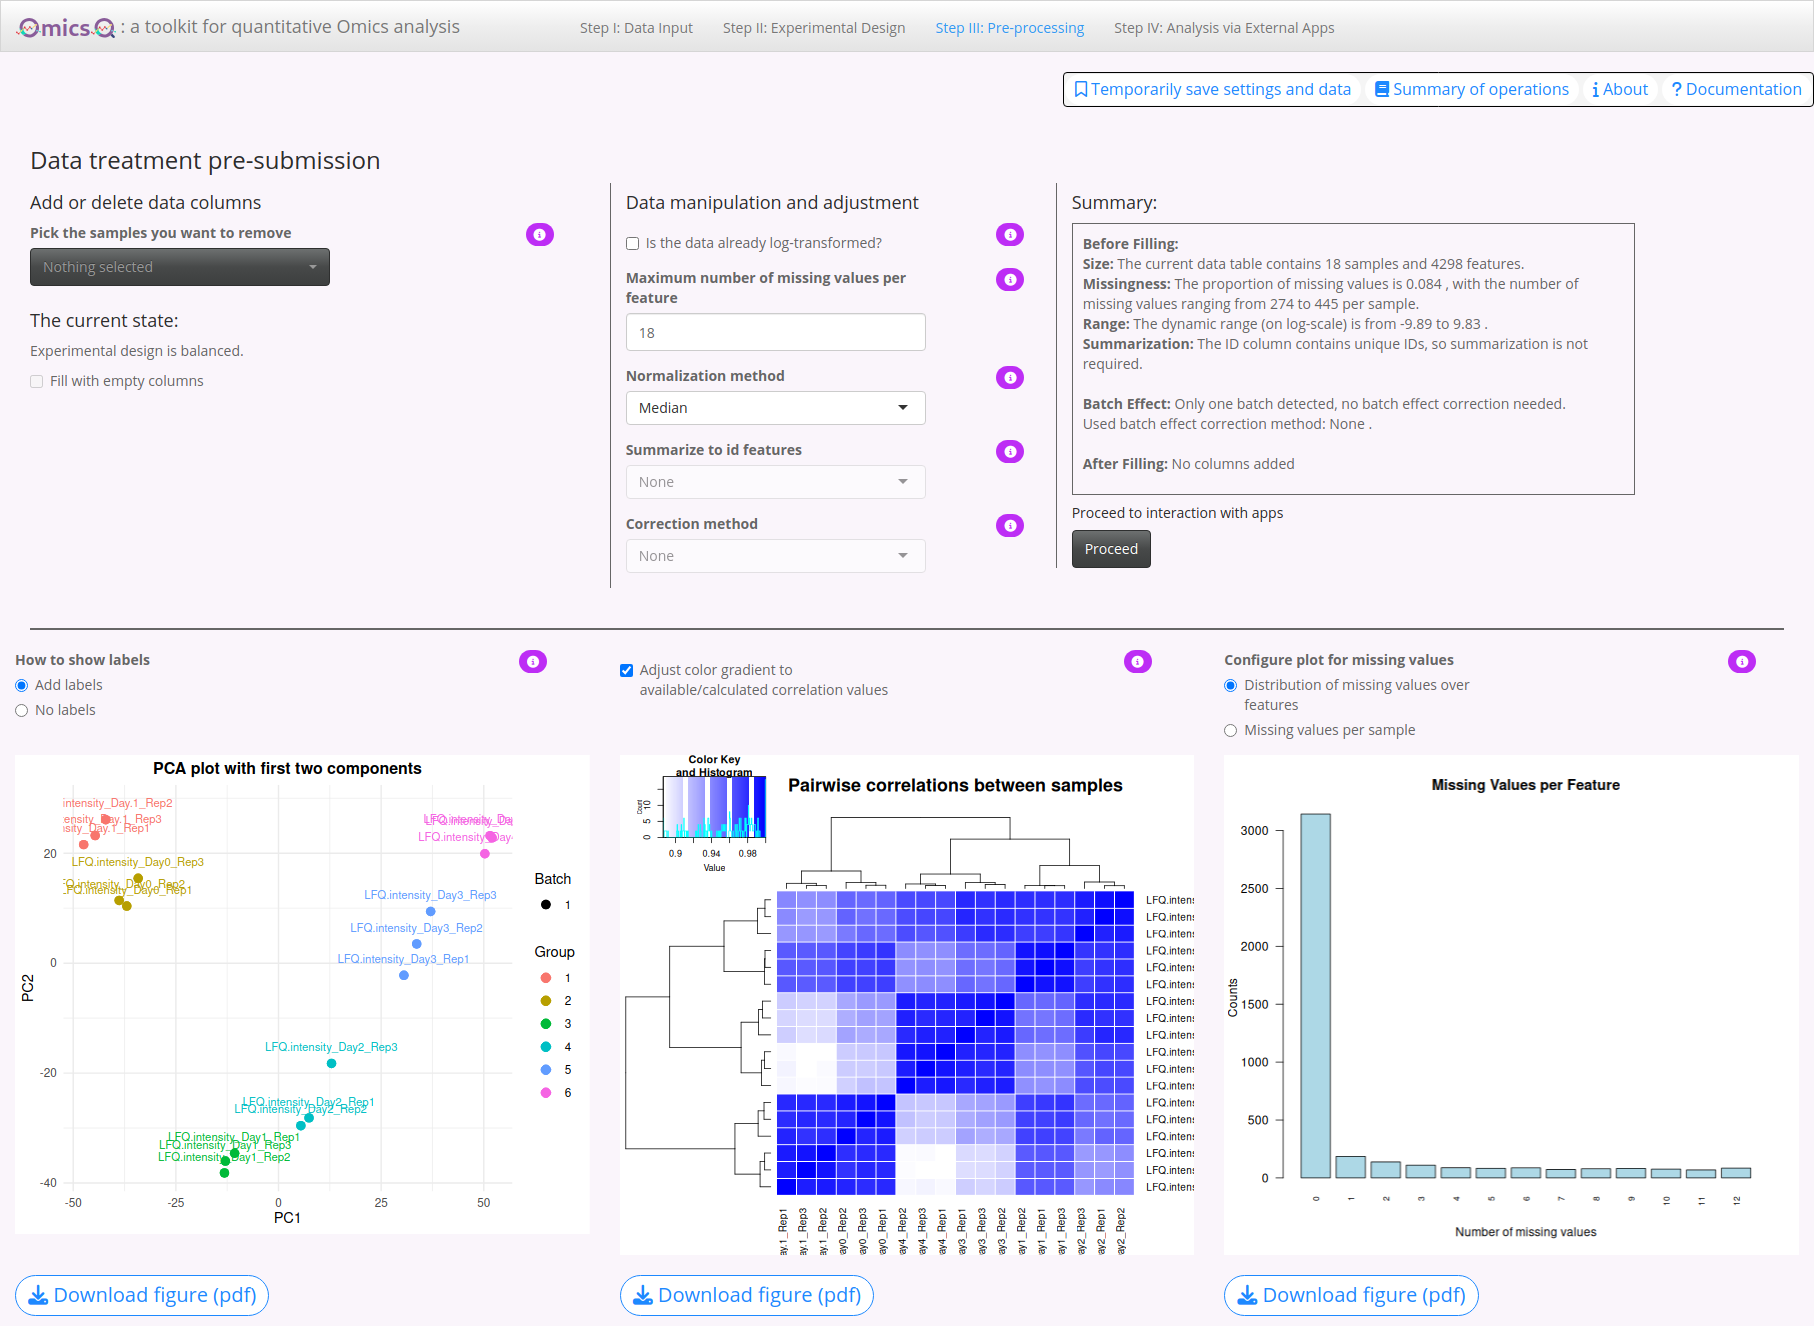
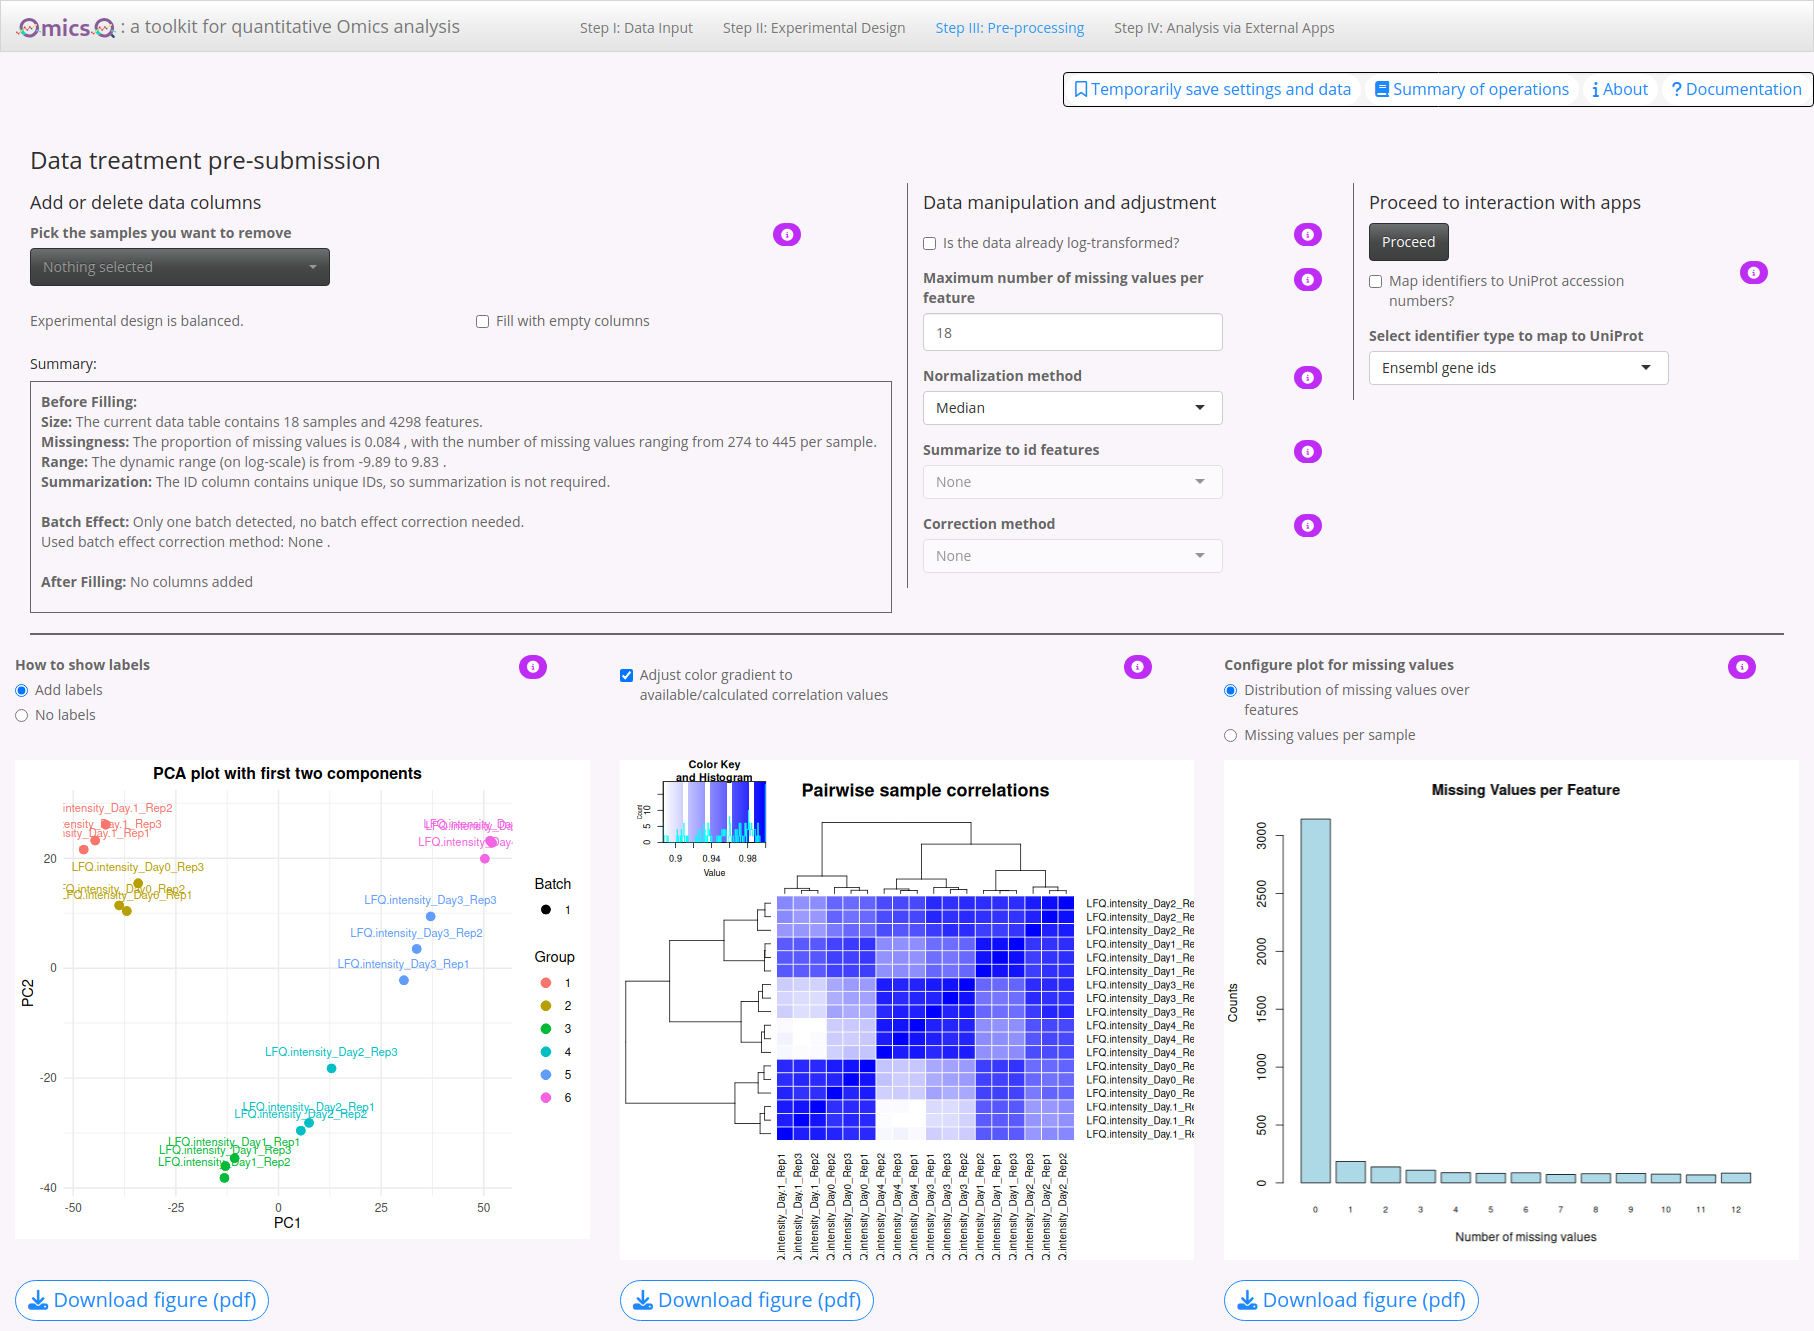
fixes of tutorial and app

diff --git a/www/tutorial/Tutorial.html b/www/tutorial/Tutorial.html
@@ -7,7 +7,7 @@
 <meta name="viewport" content="width=device-width, initial-scale=1.0, user-scalable=yes">
 
 <meta name="author" content="Veit Schwämmle">
-<meta name="dcterms.date" content="2025-07-17">
+<meta name="dcterms.date" content="2025-08-20">
 
 <title>OmicsQ — Documentation and Tutorial</title>
 <style>
@@ -69,9 +69,9 @@ ul.task-list li input[type="checkbox"] {
   </ul></li>
   <li><a href="#step-iii-pre-processing" id="toc-step-iii-pre-processing" class="nav-link" data-scroll-target="#step-iii-pre-processing">Step III: Pre-Processing</a>
   <ul class="collapse">
-  <li><a href="#add-or-delete-data-columns" id="toc-add-or-delete-data-columns" class="nav-link" data-scroll-target="#add-or-delete-data-columns">1. Add or Delete Data Columns</a></li>
+  <li><a href="#add-or-delete-data-columns-summary" id="toc-add-or-delete-data-columns-summary" class="nav-link" data-scroll-target="#add-or-delete-data-columns-summary">1. Add or Delete Data Columns &amp; Summary</a></li>
   <li><a href="#data-manipulation-adjustment" id="toc-data-manipulation-adjustment" class="nav-link" data-scroll-target="#data-manipulation-adjustment">2. Data Manipulation &amp; Adjustment</a></li>
-  <li><a href="#summary-proceed" id="toc-summary-proceed" class="nav-link" data-scroll-target="#summary-proceed">3. Summary &amp; Proceed</a></li>
+  <li><a href="#uniprot-mapping-proceed" id="toc-uniprot-mapping-proceed" class="nav-link" data-scroll-target="#uniprot-mapping-proceed">3. UniProt Mapping &amp; Proceed</a></li>
   <li><a href="#visual-feedback" id="toc-visual-feedback" class="nav-link" data-scroll-target="#visual-feedback">4. Visual Feedback</a></li>
   <li><a href="#tips" id="toc-tips" class="nav-link" data-scroll-target="#tips"><i class="fa-solid fa-lightbulb" aria-label="lightbulb"></i> Tips</a></li>
   </ul></li>
@@ -109,7 +109,7 @@ ul.task-list li input[type="checkbox"] {
     <div>
     <div class="quarto-title-meta-heading">Published</div>
     <div class="quarto-title-meta-contents">
-      <p class="date">July 17, 2025</p>
+      <p class="date">August 20, 2025</p>
     </div>
   </div>
   
@@ -127,7 +127,7 @@ ul.task-list li input[type="checkbox"] {
 <p>OmicsQ is a modular Shiny application that streamlines the workflow of quantitative omics data analysis <em>without any need to impute missing values</em>. This tutorial will guide you through all the major steps — from importing your data, annotating your experimental design, and applying pre-processing methods, to sending your finalized dataset to dedicated external apps for <em>statistical testing</em>, <em>clustering</em>, or <em>complex behavior analysis</em>.</p>
 <section id="general-remarks" class="level4">
 <h4 class="anchored" data-anchor-id="general-remarks">General remarks</h4>
-<p><em>Online documentation</em>: Further information about the different operations of the user interface are available through the information (<i class="fa-solid fa-info-circle" aria-label="info-circle"></i>) buttons.</p>
+<p><em>Online documentation</em>: Further information about the different operations of the user interface is available through the information (<i class="fa-solid fa-info-circle" aria-label="info-circle"></i>) buttons.</p>
 <p><em>Recording carried operations</em>: To ensure reproducibility of the results, all data processing steps are recorded in the <strong>Summary of operations</strong>.</p>
 <p><em>Brief overview</em>: Each of the following sections is represented by a different tab in OmicsQ:</p>
 <p><a href="#step-i-data-import">Step I: Data Import</a></p>
@@ -153,7 +153,7 @@ ul.task-list li input[type="checkbox"] {
 <ul>
 <li>Send processed data to specialized tools, such as <a href="https://github.com/computproteomics/PolySTest/">PolySTest</a> for statistical analysis, <a href="https://github.com/computproteomics/vsclust">VSClust</a> for clustering, or <a href="https://bitbucket.org/michalakw/complexbrowser/src/master/">ComplexBrowser</a> to explore protein complexes.<br>
 </li>
-<li>Retrieve and incorporate results back into OmicsQ for having a single file with all information.</li>
+<li>Retrieve and incorporate results back into OmicsQ to have a single file with all information.</li>
 </ul>
 <p><em>Layout</em>: Each of these sections consist of documentation of the different features and a tutorial part. The tutorial part is meant to guide you through the different steps of the analysis. By the end of this tutorial, you will have a fully processed dataset aligned with your experimental design and enriched with features for further biological interpretation — all managed within a single Shiny application. Whether you are working with proteomics, transcriptomics, or other omics data, OmicsQ’s flexible modules offer an interactive and user-friendly approach.</p>
 </section>
@@ -175,7 +175,7 @@ ul.task-list li input[type="checkbox"] {
 </ul>
 <section id="tutorial" class="level4">
 <h4 class="anchored" data-anchor-id="tutorial"><i class="fa-solid fa-chalkboard-teacher" aria-label="chalkboard-teacher"></i> <em>Tutorial</em></h4>
-<p>Download the example file containing protein abundances of an cell differentiation experiment from the GitHub repository <a href="https://github.com/computproteomics/OmicsQ/blob/main/data/Myo.csv">here</a>. You can use the <em>download raw file</em> button for direct download. Then upload the file into OmicsQ.</p>
+<p>Download the example file containing protein abundances of a cell differentiation experiment from the GitHub repository <a href="https://github.com/computproteomics/OmicsQ/blob/main/data/Myo.csv">here</a>. You can use the <em>download raw file</em> button for direct download. Then upload the file into OmicsQ.</p>
 </section>
 </section>
 <section id="file-specific-settings" class="level3">
@@ -215,7 +215,7 @@ ul.task-list li input[type="checkbox"] {
 <section id="tutorial-2" class="level4">
 <h4 class="anchored" data-anchor-id="tutorial-2"><i class="fa-solid fa-chalkboard-teacher" aria-label="chalkboard-teacher"></i> <em>Tutorial</em></h4>
 <p>Now you need to select which columns will be used for identifying the molecules (here proteins given by protein accession numbers) and which columns provide the quantifications.</p>
-<p>The <code>id</code> column has already chosen correctly as indicated by a “Type” <code>id</code> above the column.</p>
+<p>The <code>id</code> column has already been chosen correctly as indicated by a “Type” <code>id</code> above the column.</p>
 <p>Now press the button below <em>Select quantitative columns</em>. You can write “LFQ” in the text field and then use the <em>select all</em> option to get all columns but the one for the identifications. Then click anywhere in the app. Now all quantitative columns should be marked as <code>quant</code>.</p>
 </section>
 </section>
@@ -244,7 +244,7 @@ ul.task-list li input[type="checkbox"] {
 <h3 class="anchored" data-anchor-id="automatic-selection-of-experimental-groups">1. Automatic Selection of Experimental Groups</h3>
 <ul>
 <li><p><em>Threshold &amp; string distance</em>: The slider lets you set a <em>threshold</em> that controls how similar or different column names must be to be grouped automatically.</p></li>
-<li><p><em>String distance type</em>: the dropdown menu offers different methods for comparing column names (e.g., Levenshtein, Jaro-Winkler).</p></li>
+<li><p><em>String distance type</em>: The dropdown menu offers different methods for comparing column names (e.g., Levenshtein, Jaro-Winkler).</p></li>
 <li><p><em>Automatic grouping</em>: As you adjust the threshold and/or change the distance type, the app clusters your sample names and assign them to different groups. In case of sufficiently well formulated sample names, this procedure should help you to specify the different conditions and replicates in your experiment.</p></li>
 </ul>
 <section id="tutorial-4" class="level4">
@@ -271,7 +271,7 @@ If needed, you can annotate replicate numbers directly in the table at the botto
 </ul>
 <section id="tutorial-5" class="level4">
 <h4 class="anchored" data-anchor-id="tutorial-5"><i class="fa-solid fa-chalkboard-teacher" aria-label="chalkboard-teacher"></i> <em>Tutorial</em></h4>
-<p>Although there are no batches in this experiment, assign a batch number of <em>two</em> to the second half of the samples (<code>C4_1</code> to <code>C6_3</code>).</p>
+<p>Change the slider to separate the experimental groups (setting it to one should do it). Although there are no batches in this experiment, assign a batch number of <em>two</em> to the second half of the samples (<code>C4_1</code> to <code>C6_3</code>).</p>
 </section>
 </section>
 <section id="experimental-design-table" class="level3">
@@ -309,13 +309,14 @@ If needed, you can annotate replicate numbers directly in the table at the botto
 <section id="step-iii-pre-processing" class="level2">
 <h2 class="anchored" data-anchor-id="step-iii-pre-processing">Step III: Pre-Processing</h2>
 <p>You can apply various transformations and filters to your data, remove or add sample columns to achieve balanced designs, and explore immediate visual feedback through <em>Principal Component Analysis</em> (PCA) and <em>correlation</em> plots. This allows you to try different settings and see their effects in real time.</p>
-<section id="add-or-delete-data-columns" class="level3">
-<h3 class="anchored" data-anchor-id="add-or-delete-data-columns">1. Add or Delete Data Columns</h3>
+<section id="add-or-delete-data-columns-summary" class="level3">
+<h3 class="anchored" data-anchor-id="add-or-delete-data-columns-summary">1. Add or Delete Data Columns &amp; Summary</h3>
 <ul>
 <li><em>Pick the samples to remove</em>: Use the dropdown to select sample columns you no longer want in the analysis.<br>
 </li>
 <li><em>Fill with empty columns</em>: If your experiment is unbalanced (e.g., one group has fewer replicates than another), you can add columns with only missing values to make all groups have the same number of replicates. This helps maintain a more balanced design by introducing blank values.</li>
 <li><em>Current state</em>: A short summary is shown, indicating whether your design is balanced or unbalanced.</li>
+<li><em>Summary box</em>: Displays key information, including the final number of features and samples, the missing data rate, and whether any features show significant batch effects.</li>
 </ul>
 </section>
 <section id="data-manipulation-adjustment" class="level3">
@@ -335,11 +336,10 @@ If needed, you can annotate replicate numbers directly in the table at the botto
 <li><em>Batch Correction</em>: If you assigned batches in the previous step, you can select a correction method, such as <code>limma</code> or <code>Combat</code> , to adjust for batch effect. When there is only one batch or fewer than two replicates per batch, this option is disabled.</li>
 </ul>
 </section>
-<section id="summary-proceed" class="level3">
-<h3 class="anchored" data-anchor-id="summary-proceed">3. Summary &amp; Proceed</h3>
+<section id="uniprot-mapping-proceed" class="level3">
+<h3 class="anchored" data-anchor-id="uniprot-mapping-proceed">3. UniProt Mapping &amp; Proceed</h3>
 <ul>
-<li><em>Summary box</em>: Displays key information, including the final number of features and samples, the missing data rate, and whether any features show significant batch effects.<br>
-</li>
+<li><em>UniProt Mapping</em>: Standardize protein identifiers by mapping your data to UniProt accessions (for usage in ComplexBrowser). You can select your identifier type (Ensembl, Gene Names, etc.) or let the app auto-detect it. Skip this if your data already uses UniProt IDs. <u>Note: the mapping is done via UniProt API and thus will most likely take a while.</u></li>
 <li><em>Proceed to interaction with apps</em>: Once you are satisfied with the data adjustments, click <em>Proceed</em> to move on to the next part of OmicsQ, which may include more specialized data exploration or analysis apps.</li>
 </ul>
 </section>
